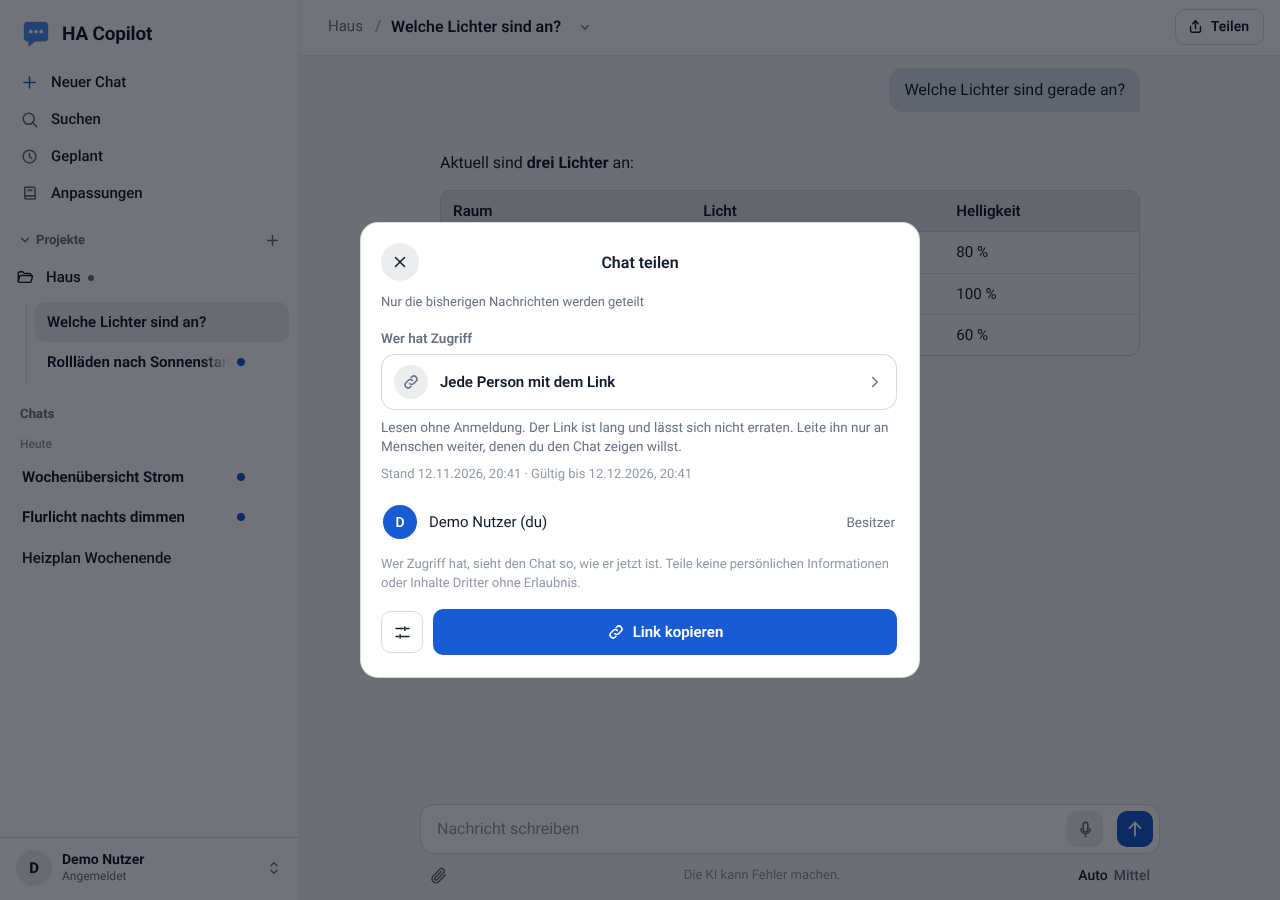
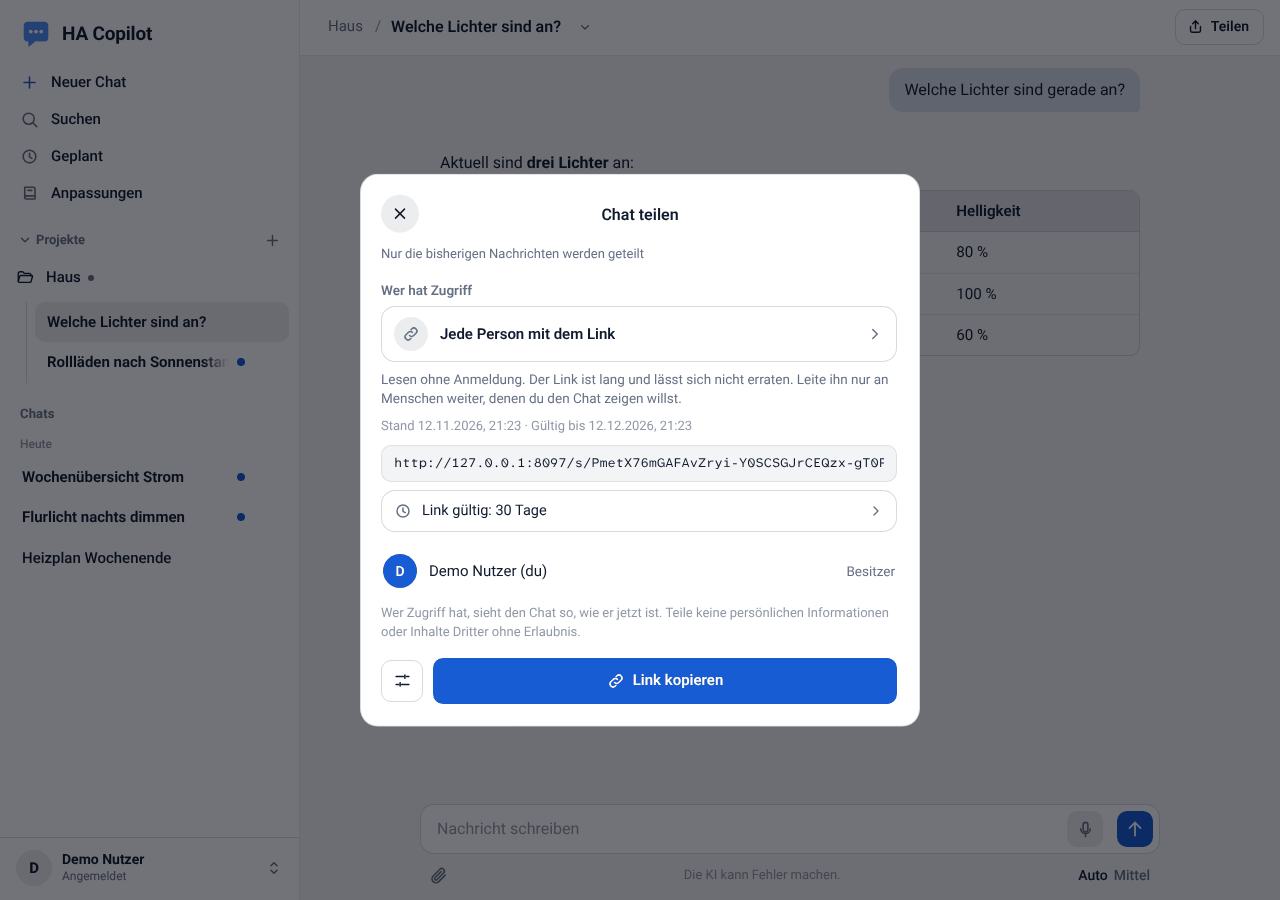
Teilen und Kopfzeile nachgebessert (0.56.1)
- Umbenennen in der Kopfzeile: Feld hat genau die Größe des Namens, nichts springt
- Teilen-Fenster: „Jede Person mit dem Link“ immer sichtbar (ausgegraut mit Grund),
  Link und „Link gültig: …“ direkt sichtbar, Gültigkeit auch über das Zahnrad
- Version, Changelog, Doku, Neuigkeiten, Übersetzungen, Screenshot

Claude-Session: https://claude.ai/code/session_012H4RFtPYg4WGjcVxpmDwqL

Changed region(s): [[0.2812, 0.28, 0.7188, 0.8089], [0.2812, 0.1867, 0.7188, 0.2489], [0.6562, 0.56, 0.6875, 0.5911]]

diff --git a/copilot/app/static/app.js b/copilot/app/static/app.js
@@ -514,6 +514,10 @@ function renameInline(chat) {
   const title = $("chat-title");
   if (title.querySelector("input")) return;
   const input = node("input", "title-edit");
+  const box = title.getBoundingClientRect();  // das Feld hat genau die Größe des Namens, nichts springt
+  input.style.width = `${Math.ceil(Math.max(box.width, 160))}px`;
+  input.style.height = `${Math.ceil(box.height)}px`;
+  title.classList.add("editing");
   input.type = "text";
   input.maxLength = 120;
   input.value = chat.title;
@@ -529,6 +533,7 @@ function renameInline(chat) {
     if (done) return;
     done = true;
     const value = input.value.trim().slice(0, 120);
+    title.classList.remove("editing");
     title.textContent = chat.title;
     syncCrumbs();
     if (!save || !value || value === chat.title) return;
@@ -6321,14 +6326,14 @@ function shareLevels(data) {
     { value: "private", icon: "lock", label: tr("Nur ich"), hint: tr("Niemand sonst sieht diesen Chat.") },
     { value: "instance", icon: "users", label: tr("Alle in dieser Instanz"), hint: tr("Andere Personen finden den Chat unter „Geteilt“, können ihn lesen und als eigene Kopie weiterführen.") },
   ];
-  if (data.sharing === "public") {
-    levels.push({
-      value: "public", icon: "link", label: tr("Jede Person mit dem Link"), disabled: !linkReady,
-      hint: linkReady
-        ? tr("Lesen ohne Anmeldung. Der Link ist lang und lässt sich nicht erraten. Leite ihn nur an Menschen weiter, denen du den Chat zeigen willst.")
+  levels.push({
+    value: "public", icon: "link", label: tr("Jede Person mit dem Link"), disabled: !linkReady,
+    hint: linkReady
+      ? tr("Lesen ohne Anmeldung. Der Link ist lang und lässt sich nicht erraten. Leite ihn nur an Menschen weiter, denen du den Chat zeigen willst.")
+      : data.sharing !== "public"
+        ? tr("Nicht freigeschaltet: Der Admin muss in den Einstellungen bei „Chats teilen“ den Wert „public“ wählen.")
         : tr("Dafür ist der Domain-Zugang nötig, und der ist nicht eingerichtet."),
-    });
-  }
+  });
   return levels;
 }
 
@@ -6341,6 +6346,22 @@ async function drawSharePanel(body, chat, view = { open: false }) {
     try { await action(); if (success) toast(success); } catch (err) { toast(errorText(err, tr("Das hat nicht geklappt."))); }
     await load();
   };
+
+  const expiryLabel = (iso) => {
+    if (!iso) return tr("Unbegrenzt");
+    const days = Math.max(1, Math.round((new Date(iso).getTime() - Date.now()) / 86400000));
+    return days <= 7 ? tr("7 Tage") : tr("30 Tage");
+  };
+  async function pickExpiry(anchor, data) {
+    const mark = (n) => (n === 0 ? !data.public.expires_at : !!data.public.expires_at && expiryLabel(data.public.expires_at) === (n === 7 ? tr("7 Tage") : tr("30 Tage")));
+    const choice = await openPopover(anchor, [
+      { heading: tr("Link gültig") },
+      { value: "exp:7", label: tr("7 Tage ab jetzt"), active: mark(7) },
+      { value: "exp:30", label: tr("30 Tage ab jetzt"), active: mark(30) },
+      { value: "exp:0", label: tr("Unbegrenzt"), active: mark(0) },
+    ]);
+    if (typeof choice === "string" && choice.startsWith("exp:")) await run(() => post({ mode: "public", expires_days: Number(choice.slice(4)) }), tr("Gültigkeit geändert."));
+  }
 
   function render(data) {
     const level = data.public ? "public" : data.instance ? "instance" : "private";
@@ -6356,6 +6377,7 @@ async function drawSharePanel(body, chat, view = { open: false }) {
       }, next === "private" ? tr("Nicht mehr geteilt.") : tr("Chat geteilt."));
     };
 
+    let urlField = null;
     const nodes = [node("p", "share-h", tr("Wer hat Zugriff"))];
     const access = node("button", "share-access");
     access.type = "button";
@@ -6395,6 +6417,20 @@ async function drawSharePanel(body, chat, view = { open: false }) {
         const until = data.public ? ` · ${data.public.expires_at ? tr("Gültig bis {0}", exactTime(data.public.expires_at)) : tr("Läuft nicht ab")}` : "";
         nodes.push(node("p", "share-state", tr("Stand {0}", exactTime(taken)) + until));
       }
+      if (level === "public") {
+        urlField = node("input", "share-url");
+        urlField.type = "text";
+        urlField.readOnly = true;
+        urlField.value = data.public.url;
+        urlField.setAttribute("aria-label", tr("Öffentlicher Link"));
+        urlField.addEventListener("focus", () => urlField.select());
+        const expiry = node("button", "share-expiry");
+        expiry.type = "button";
+        expiry.setAttribute("aria-haspopup", "menu");
+        expiry.append(icon("clock"), node("span", "", tr("Link gültig: {0}", expiryLabel(data.public.expires_at))), icon("chevron"));
+        expiry.addEventListener("click", () => pickExpiry(expiry, data));
+        nodes.push(urlField, expiry);
+      }
     }
 
     const owner = node("div", "share-owner");
@@ -6412,30 +6448,19 @@ async function drawSharePanel(body, chat, view = { open: false }) {
       gear.append(icon("sliders"));
       gear.addEventListener("click", async () => {
         const entries = [{ value: "refresh", icon: "refresh", label: tr("Stand aktualisieren") }];
-        if (data.public) {
-          entries.push({ divider: true }, { heading: tr("Link gültig") },
-            { value: "exp:7", label: tr("7 Tage ab jetzt") }, { value: "exp:30", label: tr("30 Tage ab jetzt") }, { value: "exp:0", label: tr("Unbegrenzt"), active: !data.public.expires_at });
-        }
+        if (data.public) entries.push({ value: "expiry", icon: "clock", label: tr("Gültigkeit des Links …") });
         const choice = await openPopover(gear, entries);
         if (choice === "refresh") await run(async () => { await post({ mode: "instance" }, "/refresh"); if (data.public) await post({ mode: "public" }, "/refresh"); }, tr("Stand aktualisiert."));
-        else if (typeof choice === "string" && choice.startsWith("exp:")) await run(() => post({ mode: "public", expires_days: Number(choice.slice(4)) }), tr("Gültigkeit geändert."));
+        else if (choice === "expiry") await pickExpiry(gear, data);
       });
       foot.append(gear);
     }
     const main = node("button", "pill primary share-main");
     main.type = "button";
     if (level === "public") {
-      const field = node("input", "share-url");
-      field.type = "text";
-      field.readOnly = true;
-      field.hidden = true;
-      field.value = data.public.url;
-      field.setAttribute("aria-label", tr("Öffentlicher Link"));
-      field.addEventListener("focus", () => field.select());
-      nodes.push(field);
       main.append(icon("link"), node("span", "", tr("Link kopieren")));
       main.addEventListener("click", async () => {
-        try { await navigator.clipboard.writeText(data.public.url); toast(tr("Kopiert.")); } catch { field.hidden = false; field.select(); toast(tr("Zum Kopieren Strg+C drücken.")); }
+        try { await navigator.clipboard.writeText(data.public.url); toast(tr("Kopiert.")); } catch { urlField?.select(); toast(tr("Zum Kopieren Strg+C drücken.")); }
       });
     } else {
       main.append(node("span", "", tr("Fertig")));

diff --git a/copilot/app/static/style.css b/copilot/app/static/style.css
@@ -145,7 +145,8 @@
 .crumbs:not(:has(.crumb-menu:not([hidden]))) .title { flex: 1; }
 .title.renamable { padding: 4px 8px; margin: 0 -2px; border-radius: var(--r-2); cursor: text; }
 .title.renamable:hover { background: var(--chip); }
-.title-edit { width: min(420px, 60vw); box-sizing: border-box; padding: 3px 8px; border: 1px solid var(--accent); border-radius: var(--r-2); background: var(--panel); color: var(--text); font: inherit; outline: none; }
+.title.renamable.editing { padding: 0; background: none; cursor: text; overflow: visible; max-width: 100%; }
+.title-edit { display: block; max-width: 100%; box-sizing: border-box; margin: 0; padding: 0 8px; border: 1px solid var(--accent); border-radius: var(--r-2); background: var(--panel); color: var(--text); font: inherit; line-height: inherit; outline: none; }
 .crumb-project { flex: 0 1 auto; max-width: 30%; padding: 4px 8px; border-radius: var(--r-2); overflow: hidden; text-overflow: ellipsis; white-space: nowrap; font-size: 15px; color: var(--text-2); }
 .crumb-project:hover { background: var(--chip); color: var(--text); }
 .crumb-sep { flex: none; color: var(--muted); font-size: 15px; }
@@ -670,7 +671,6 @@ select.field { appearance: none; -webkit-appearance: none; padding-right: 40px; 
   .crumb-project, .crumb-sep { display: none; }
   .share-top { width: 38px; height: 38px; padding: 0; justify-content: center; }
   .share-top span { display: none; }
-  .title-edit { width: 100%; }
   .thread { padding: 8px 16px 20px; }
   .thread.empty { padding-bottom: 4vh; }
   .hello h2 { font-size: 34px; }
@@ -1368,6 +1368,11 @@ body.voice-open { overflow: hidden; }
 .share-gear .icon { width: 19px; height: 19px; }
 .share-main { flex: 1; justify-content: center; gap: 8px; min-height: 42px; }
 .share-main .icon { width: 18px; height: 18px; }
+.share-expiry { display: flex; align-items: center; gap: 10px; width: 100%; margin-top: 8px; padding: 9px 12px; border: 1px solid var(--line-2); border-radius: var(--r-3); background: var(--panel); color: var(--text); font-size: 14.5px; text-align: left; transition: background .15s; }
+.share-expiry:hover { background: var(--chip); }
+.share-expiry .icon:first-child { width: 18px; height: 18px; color: var(--text-2); }
+.share-expiry span { flex: 1; }
+.share-expiry .icon:last-child { width: 16px; height: 16px; color: var(--text-2); }
 .share-url { width: 100%; box-sizing: border-box; margin-top: 10px; padding: 9px 12px; border: 1px solid var(--line); border-radius: var(--r-2); background: var(--panel-2); color: var(--text); font: 13px/1.3 var(--mono, monospace); }
 .shared-list { display: flex; flex-direction: column; gap: 2px; }
 .shared-item { min-height: 54px; padding-top: 6px; padding-bottom: 6px; }

diff --git a/copilot/CHANGELOG.md b/copilot/CHANGELOG.md
@@ -1,5 +1,10 @@
 # Änderungen
 
+## 0.56.1
+Nachbesserungen am Teilen und an der Kopfzeile.
+- **Umbenennen in der Kopfzeile:** Das Eingabefeld hat jetzt genau die Größe des Namens; die Kopfzeile und der Chat darunter springen nicht mehr (`.title.editing`, Breite und Höhe aus `getBoundingClientRect()`).
+- **Teilen-Fenster:** Die Stufe **Jede Person mit dem Link** steht immer in der Auswahl. Ist sie nicht freigeschaltet (`chat.sharing` nicht `public`) oder fehlt `domain.public_base_url`, ist die Zeile ausgegraut und nennt den Grund, statt zu fehlen. Bei dieser Stufe sieht man den **Link** (Feld zum Markieren) und die Zeile **Link gültig: 30 Tage** (Klick: 7 Tage, 30 Tage, unbegrenzt) gleich im Fenster; das Zahnrad bietet **Stand aktualisieren** und **Gültigkeit des Links …**. Neue Texte in `en-ui.json`. Docs (DOCS.md) und ein Screenshot nachgezogen.
+
 ## 0.56.0
 Sammelversion mit sechs neuen Funktionen (Chatwissen, Dateien im Projekt, Gedächtnis ausgebaut, Inkognito-Chat, Chats teilen, Deep Research). Datenbankschema 23 (nur Ergänzungen, alte Daten bleiben unverändert).
 - **Chatwissen im Projekt.** In einem Projekt-Chat kennt die KI die anderen Chats desselben Projekts: Der Kontext enthält die Liste (bis zu 25 Chats mit Titel, Datum und Kurzfassung; `CHAT_INLINE`), als Referenz gekennzeichnet (`CHAT_NOTE`), nicht als Anweisung. Neue Werkzeuge (nur wenn das Projekt weitere Chats hat): `project_chats` (Liste), `chat_search` (Suche nur in diesem Projekt) und `chat_read` (ein Chat nach Kennung, Kennungsanfang oder Titel; lange Chats abschnittsweise, höchstens 40 000 Zeichen je Aufruf). Alles bleibt im Projekt und bei der Person; Inkognito-Chats, Sprachgespräche und Chats anderer Projekte sind nie sichtbar. Tests: `tests/test_project_chats.py`.
